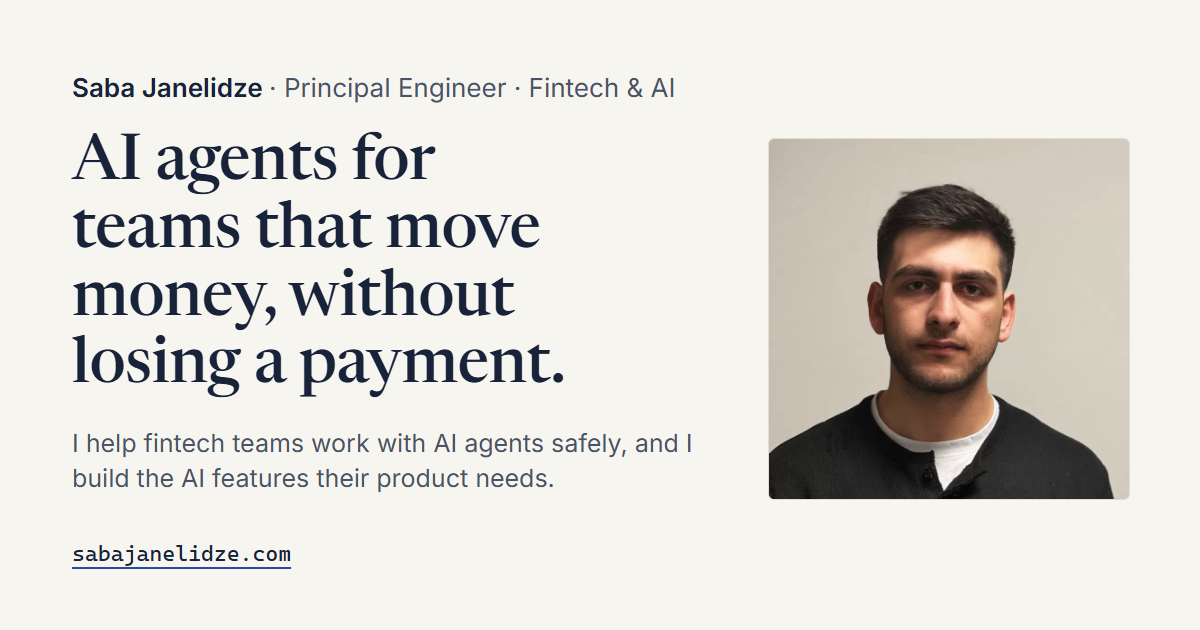
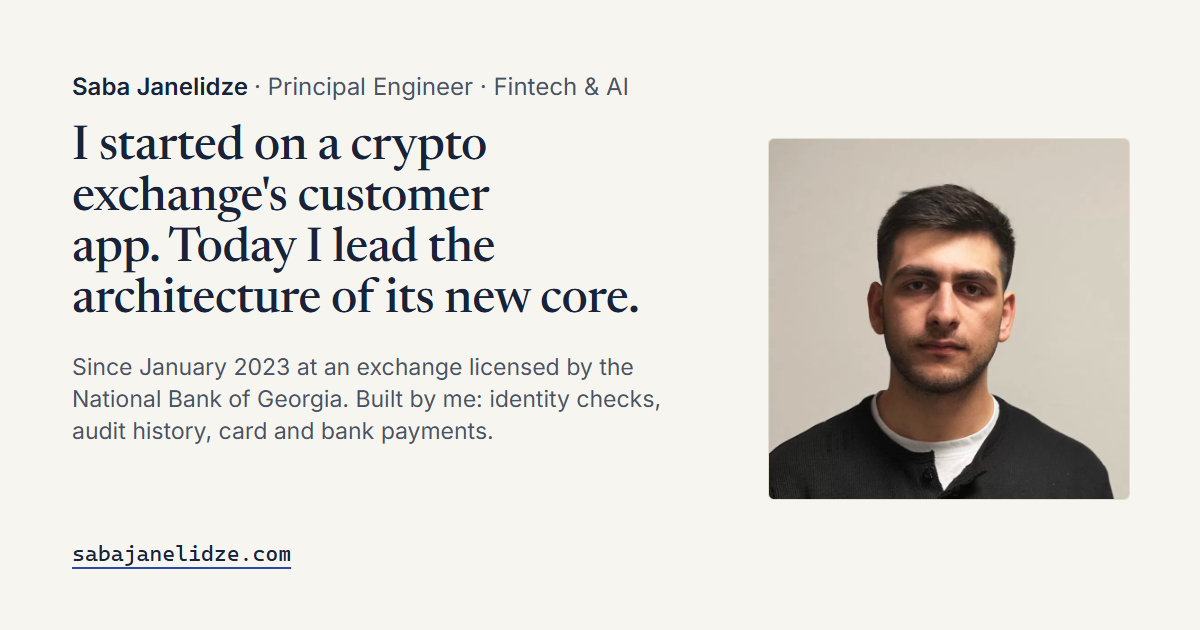
feature(content): lead with saba's path at the exchange, two kinds of work instead of three offers, how i work, neutral contact, new link preview

Changed region(s): [[0.0617, 0.181, 0.5858, 0.7841], [0.0617, 0.1206, 0.5858, 0.181]]

diff --git a/src/content/home.ts b/src/content/home.ts
@@ -16,14 +16,14 @@ import { PERSON } from "../lib/site";
 export const seo = {
   title: "Saba Janelidze — Principal Engineer · Fintech & AI",
   description:
-    "Principal Engineer at a licensed crypto exchange. I help fintech teams use AI coding agents safely, and I build AI features for their products.", // 143 characters; Google cuts at about 155
+    "From a crypto exchange's customer app to leading the architecture of its new Go core. Identity checks, payments, audit history, AI agents behind checks.", // 152 characters; Google cuts at about 155
 };
 
 // The header links. On phones only the ones with phone: true show (no sideways scroll at 320 px).
 // "CV" is the quiet recruiter route (Phase 1d fix 11). Phase 1f: it shows on phones too (Saba, 2026-10-15).
 export const nav = [
   { label: "Work", href: "#work", phone: true },
-  { label: "What I do", href: "#services", phone: false },
+  { label: "Work with me", href: "#services", phone: false },
   { label: "About", href: "#about", phone: false },
   { label: "Contact", href: "#contact", phone: true },
   { label: "CV", href: "/cv", phone: true },
@@ -31,15 +31,15 @@ export const nav = [
 
 /** The intro email: a subject and four short prompts, so the first email is easy to write (attack review, Saba 2026-10-18). */
 export const introMail = {
-  subject: "Intro call: AI agents in our repo",
-  body: "Team and what you're building:\n\nHow you use AI agents today:\n\nWhere you don't trust them yet:\n\nGood times for a short call (with time zone):\n",
+  subject: "Intro: [your company]",
+  body: "What you're building:\n\nWhere you need help, and when:\n\nGood times for a short call (with time zone):\n",
 };
 export const introMailHref = () =>
   `mailto:${PERSON.email}?subject=${encodeURIComponent(introMail.subject)}&body=${encodeURIComponent(introMail.body)}`;
 
 /** The main action everywhere on the home page: the intro email (no booking page yet).
  *  The label says what the email is for (Phase 1d fix 11). Approved 2026-10-17. */
-export const emailCta = { label: "Email me about your team", href: introMailHref() };
+export const emailCta = { label: "Email me", href: introMailHref() };
 
 /** The lab's contact path. /book is an honest "Get in touch" page today; it reads ?from= and keeps it,
  *  so lab links (?from=lab-payments) still work. Later it can forward to a booking calendar. */
@@ -50,17 +50,16 @@ export const hero = {
   /** The one small line above the headline. The only place the title appears on the first screen.
    *  Phase 1f: no company name on the first screen (Saba, 2026-10-15: "don't highlight Bitnet that much"). */
   role: "Principal Engineer · Fintech & AI",
-  // Phase 1f (Saba chose this on 2026-10-15): a short headline as the h1, the rest of the pitch in the subline.
-  headline: "AI agents for teams that move money, without losing a payment.",
-  subline: "I help fintech teams use AI coding agents safely, and I build the AI features their product needs.",
+  // Positioning review (Saba, 2026-10-19): lead with Saba, AI as how he works. The headline is his path at the exchange
+  // (Saba's pick "V1" of four written alternatives); the dates under it make the jump believable.
+  headline: "I started on a crypto exchange's customer app. Today I lead the architecture of its new core.",
+  subline:
+    "Since January 2023 at an exchange licensed by the National Bank of Georgia: the React customer app (2023), the backend (2024–2025), the new Go core platform (2026).",
   /** The full one-sentence pitch (the design pages /design/a|b|c and the page description still use it). */
   pitch:
     "I help software teams that handle money work with AI agents safely — and I build the AI features their product needs.",
-  // The one proof sentence under the pitch (approved 2026-10-17). Sources: bitnet.ge (licence),
-  // Saba's confirmed facts of 2026-10-14/15 (title; what is live), the role history in about.bio, and the AI set-up
-  // (research 2026-10-14). The AI half was added in the text review: the headline is about AI agents, the old line proved only fintech.
-  proofLine:
-    "Since 2023 I've helped build a crypto exchange licensed by the National Bank of Georgia. I lead its new core platform's architecture and wrote most of the team's AI coding set-up.",
+  // What is live and his (Saba's confirmed facts of 2026-10-15). The first screen's AI line is the race figure's line (raceLede).
+  proofLine: "Built by me and live: identity checks, audit history, card and bank payments.",
   email: emailCta,
   // The line above the race figure (HeroRace): ties the bug to AI agents and to Saba's method. Chosen by Saba on 2026-10-17
   // after Codex and a skeptic reviewer. Every part is backed on the page ("can", not "do"; review agents: How I work, 6d).
@@ -204,35 +203,26 @@ export const proof: ProofFact[] = [
 ];
 
 export const offers = {
-  heading: "What I do",
-  intro: "Three ways I can help teams that move money.",
+  heading: "Work with me",
+  intro: "Two kinds of work, both where money or identity must be right.",
   // Not on the home page (Phase 1 design pages only):
   more: { label: "Book a call to talk it through", href: book("home-offers") },
-  // proof: one line per offer that points at the evidence (Phase 1d fix 7). Approved 2026-10-17.
-  // Sources: the private research notes (private/research/, not in git) and Saba's confirmed facts of 2026-10-15.
-  // Offer 1: tooling counts only (no module names, no claim that any Bitnet area was built by agents). "My team", never the
-  // exchange's name next to these counts (Saba decides what is said about the exchange).
-  // The audit-then-rollout steps are on the page by Saba's choice (2026-10-17).
-  // Offer 2: the thinnest proof; DevNews's live site is down, so the link goes to its public code.
+  // Positioning review (Saba, 2026-10-19): two kinds of work instead of three packaged offers. Dropped: "AI features in your
+  // product" (thin proof) and the fixed "audit, then a 2-week rollout" (no client proof yet). proof: one line that points at the
+  // evidence. Next to the AI counts: "my team", never the exchange's name.
   items: [
     {
-      title: "AI coding agents in your repo, set up safely",
-      text: "First an audit, then a 2-week rollout: coding agents in your repo with rules, safety hooks and automatic checks, and training for your team.",
-      proof: "In one audit on my team, a verifier agent re-checked 111 claims made by other agents and corrected 12. I wrote most of that set-up: 6 review agents, 13 safety hooks, and a build check on the set-up itself.",
-      link: { label: "How I work", href: "#how", dir: "down" },
-    },
-    {
-      title: "AI features in your product",
-      text: "An assistant, document search or back-office automation, with tests for its answers, logs, cost limits, and a person's OK before it changes data.",
-      proof: "The same rules as my own work: separate review agents, and a person's OK before anything touches money or data. Smallest proof today: DevNews, my open-source AI reader (three providers, with a fallback when one fails).",
-      link: { label: "Code on GitHub", href: "https://github.com/000Janela000/DevNews", dir: "out" },
-    },
-    {
-      title: "Fintech & payment systems",
+      title: "Payments, identity and core systems",
       // No "ledgers": not Saba's area at the exchange (text review 2026-10-17).
-      text: "Payments, identity checks, audit history and staff tools, built so a request that arrives twice runs only once.",
-      proof: "Live on the exchange I help build: my payment-provider integration, with bank-app deposits, card payments and recurring card charges.",
+      text: "A payment-provider integration, an identity-check flow, an audit history, or the architecture around them.",
+      proof: "The same kinds of systems I built and run at the exchange.",
       link: { label: "The work", href: "#work-bitnet", dir: "down" },
+    },
+    {
+      title: "AI coding agents with guardrails",
+      text: "If your team is bringing in coding agents, I set up what I run myself: rules the agents read first, review agents for the risky parts, safety hooks, and a check on the set-up itself. Scope after a first look at your repo.",
+      proof: "In one audit on my team, a verifier agent re-checked 111 claims made by other agents and corrected 12.",
+      link: { label: "How I work", href: "#how", dir: "down" },
     },
   ],
 };
@@ -251,8 +241,8 @@ export type MethodStep = { title: string; text: string; fact: string; source: st
 //   (a fintech team's method; told without the company's name).
 // - 11 of 11: WasteAway's decision table, every decision "decided_by: founder".
 export const method = {
-  heading: "How I work with AI agents",
-  intro: "Agents write most of the code. Automatic checks block what fails. A person decides on money and anything public.",
+  heading: "How I work",
+  intro: "AI coding agents write much of my code. That works only when the checks around them are stricter than the agents. I write those checks and measure them.",
   steps: [
     {
       title: "Plan and rules",
@@ -385,11 +375,11 @@ export const work: { heading: string; intro: string; big: WorkItem[]; small: Wor
       title: "Bitnet.ge",
       role: "Crypto exchange · Principal Engineer",
       years: "2023 – now",
-      // Outcome first, approved 2026-10-17. What is live: confirmed by Saba on 2026-10-15. Bank-app items are deposits.
-      outcome:
-        "Built by me, live today: the new identity checks, card payments, bank-app deposits, and a rule that each customer action runs only once, even after a double tap.",
-      // The role history is in the hero proof line and in About, so the card does not repeat it.
-      text: "A crypto exchange licensed by the National Bank of Georgia.",
+      // Positioning review (Saba, 2026-10-19): scope first, then the systems that prove it. What is live: confirmed by Saba on
+      // 2026-10-15. The rule is told as what the build checks (a declaration), never as "runs only once".
+      outcome: "I lead the architecture of the new core platform (Go) and first-authored 237 of its 278 architecture decision records.",
+      // The role history is in the hero subline and in About, so the card does not repeat it. The details go in the smaller text.
+      text: "A crypto exchange licensed by the National Bank of Georgia. Built by me and live: the new identity checks, the audit history, and the payment-provider integration (bank-app deposits, card payments, recurring card charges). One rule I set: every customer action declares how a repeat request is handled, and the build checks it.",
       note: "Full case study on request",
       // A mailto until the /work/bitnet case study exists (Phase 1d fix 9). No written case study exists yet, so it doesn't promise one.
       more: { label: "Ask me how it was built", href: `mailto:${PERSON.email}?subject=${encodeURIComponent("How the Bitnet work was built")}` },
@@ -578,8 +568,8 @@ export const about = {
 
 export const contact = {
   heading: "Let's talk",
-  // The buyer's pain is risk, not speed (text review 2026-10-17).
-  text: "Tell me what your team is building, how you use AI agents today, and where you don't trust them yet. A short intro call is the easiest start: email me and we'll find a time.",
+  // Positioning review (Saba, 2026-10-19): one door for a role or a project, no AI-adoption questions.
+  text: "Tell me what you're building and where you need a senior engineer. Email me and we'll find a time for a short call.",
   email: PERSON.email,
   cta: emailCta,
   copy: { idle: "Copy", done: "Copied", label: "Copy email address", copied: "Email address copied.", failed: "Could not copy. Use the email link." },
